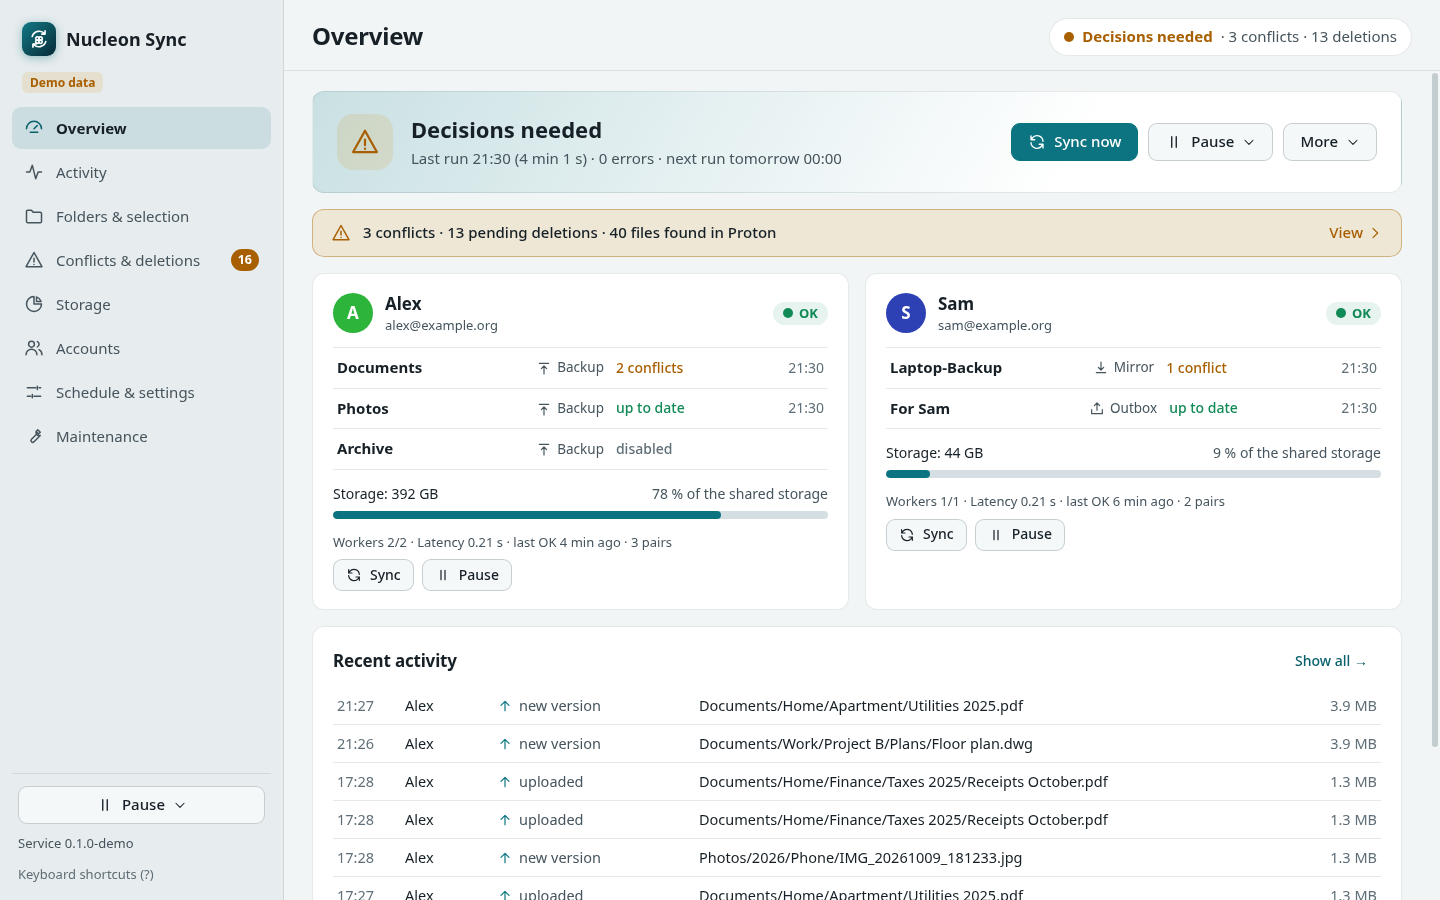
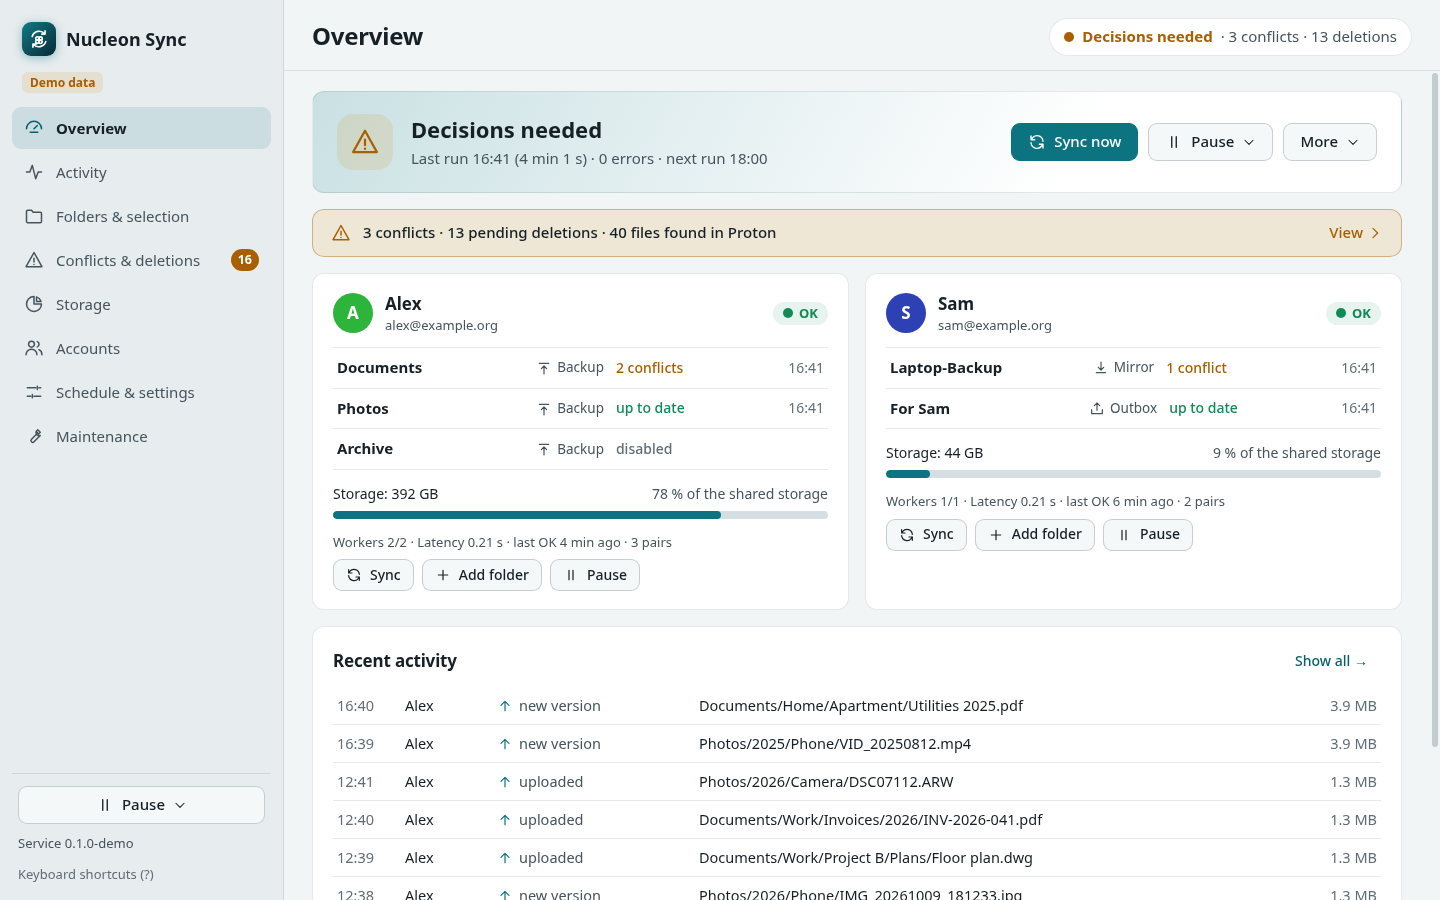
Add folder: visible button on the Overview account cards; screenshots

diff --git a/ui/src/renderer/screens/Folders.tsx b/ui/src/renderer/screens/Folders.tsx
@@ -9,7 +9,7 @@ import { Icon } from '../components/Icon.tsx';
 import { Button, Checkbox, Empty, PauseControl, Pill, Spinner, Switch } from '../components/ui.tsx';
 import { toApiError } from '../errors.ts';
 import { fmtBytes } from '../format.ts';
-import { KEY_EVENTS, rowKeys } from '../components/a11y.ts';
+import { KEY_EVENTS, rowKeys, takePendingNewPair } from '../components/a11y.ts';
 import { t } from '../i18n/index.ts';
 import {
   applyChanges,
@@ -83,7 +83,11 @@ export function Folders() {
   const openRef = useRef(openWizard);
   openRef.current = openWizard;
   useEffect(() => {
-    const h = () => void openRef.current();
+    const h = () => {
+      takePendingNewPair();
+      void openRef.current();
+    };
+    if (takePendingNewPair()) void openRef.current();
     window.addEventListener(KEY_EVENTS.newPair, h);
     return () => window.removeEventListener(KEY_EVENTS.newPair, h);
   }, []);

diff --git a/ui/src/renderer/screens/Overview.tsx b/ui/src/renderer/screens/Overview.tsx
@@ -4,6 +4,7 @@ import type { AccountDto, PairDto, StatusDto, StoragePoolDto } from '@nucleon-sy
 
 import { ActivityLine } from '../components/ActivityRow.tsx';
 import { Icon } from '../components/Icon.tsx';
+import { requestNewPair } from '../components/a11y.ts';
 import {
   Avatar,
   Button,
@@ -300,6 +301,17 @@ function AccountCard({
           onClick={() => void api.sync({ accountId: a.id }).catch(toastError)}
         >
           {t.actions.sync}
+        </Button>
+        <Button
+          small
+          icon="plus"
+          data-testid={`add-folder-${a.id}`}
+          onClick={() => {
+            requestNewPair();
+            goTo('folders');
+          }}
+        >
+          {t.folders.addPair.replace('+ ', '')}
         </Button>
         <Button
           small

diff --git a/ui/test/e2e/ui-round1.spec.ts b/ui/test/e2e/ui-round1.spec.ts
@@ -275,6 +275,16 @@ test.describe('demo fixtures', () => {
     await chip(t.activity.range.all).click();
   });
 
+  test('overview: "Ordner hinzufügen" on an account card opens the pair wizard', async () => {
+    const { page } = ui;
+    await page.locator('[data-nav="overview"]').click();
+    const btn = page.locator('[data-testid^="add-folder-"]').first();
+    await expect(btn).toHaveText(t.folders.addPair);
+    await btn.click();
+    await expect(page.getByTestId('wizard-next')).toBeVisible();
+    await page.locator('[data-nav="overview"]').click();
+  });
+
   test('#6 pair wizard: "Weiter" stays disabled until the local folder check finished', async () => {
     const { page } = ui;
     await page.locator('[data-nav="folders"]').click();

diff --git a/ui/test/e2e/screenshots.spec.ts b/ui/test/e2e/screenshots.spec.ts
@@ -56,7 +56,7 @@ for (const theme of ['dark', 'light'] as const) {
         await page.locator('[data-path="Projects/nucleon-sync"] button[aria-expanded]').click();
         await page.locator('[data-path="Old-Archive"] [role=checkbox]').click();
         await shot(page, 'folders-changes-dark');
-        await page.getByRole('button', { name: 'Pair', exact: true }).click();
+        await page.getByTestId('add-pair').click();
         // unapplied selection changes: the app asks first (fix-ui-round1 #7)
         await expect(page.getByTestId('choice-dialog')).toBeVisible();
         await shot(page, 'unsaved-dialog-dark');

diff --git a/ui/src/renderer/components/a11y.ts b/ui/src/renderer/components/a11y.ts
@@ -115,3 +115,15 @@ export const SHORTCUTS = {
 
 /** custom DOM events screens listen to */
 export const KEY_EVENTS = { search: 'ps:search', newPair: 'ps:new-pair' } as const;
+
+/** Opens the pair wizard on the Folders screen, also when that screen is not mounted yet (it picks the flag up). */
+let pendingNewPair = false;
+export function requestNewPair(): void {
+  pendingNewPair = true;
+  window.dispatchEvent(new Event(KEY_EVENTS.newPair));
+}
+export function takePendingNewPair(): boolean {
+  const p = pendingNewPair;
+  pendingNewPair = false;
+  return p;
+}

diff --git a/ui/src/renderer/i18n/de.ts b/ui/src/renderer/i18n/de.ts
@@ -310,7 +310,7 @@ export const de: Strings = {
   } satisfies Record<RunTrigger, string>,
   folders: {
     pair: 'Paar',
-    addPair: '+ Paar',
+    addPair: 'Ordner hinzufügen',
     direction: 'Richtung',
     enabled: 'Aktiv',
     uploadLocalNew: 'Neue Dateien vom PC hochladen',

diff --git a/ui/src/renderer/i18n/en.ts b/ui/src/renderer/i18n/en.ts
@@ -300,7 +300,7 @@ export const en = {
   } satisfies Record<RunTrigger, string>,
   folders: {
     pair: 'Pair',
-    addPair: '+ Pair',
+    addPair: 'Add folder',
     direction: 'Direction',
     enabled: 'Active',
     uploadLocalNew: 'Upload new files from this PC',

diff --git a/CHANGELOG.md b/CHANGELOG.md
@@ -4,9 +4,13 @@ All notable changes to Nucleon Sync. The format follows [Keep a Changelog](https
 versions follow [Semantic Versioning](https://semver.org/). Until 1.0, minor versions may change the local API,
 `daemon.json` or the CLI's JSON output; such changes are listed here.
 
-## [0.4.0] – unreleased
+## [0.4.0] – 2026-10-15
 
 Minor version because the settings, the local API and the CLI change (see "Upgrading").
+
+### Added
+
+- A visible "Add folder" button on each account card in the Overview (opens the pair wizard); the Folders screen's "+ Pair" button is now "Add folder" too.
 
 ### Removed
 
